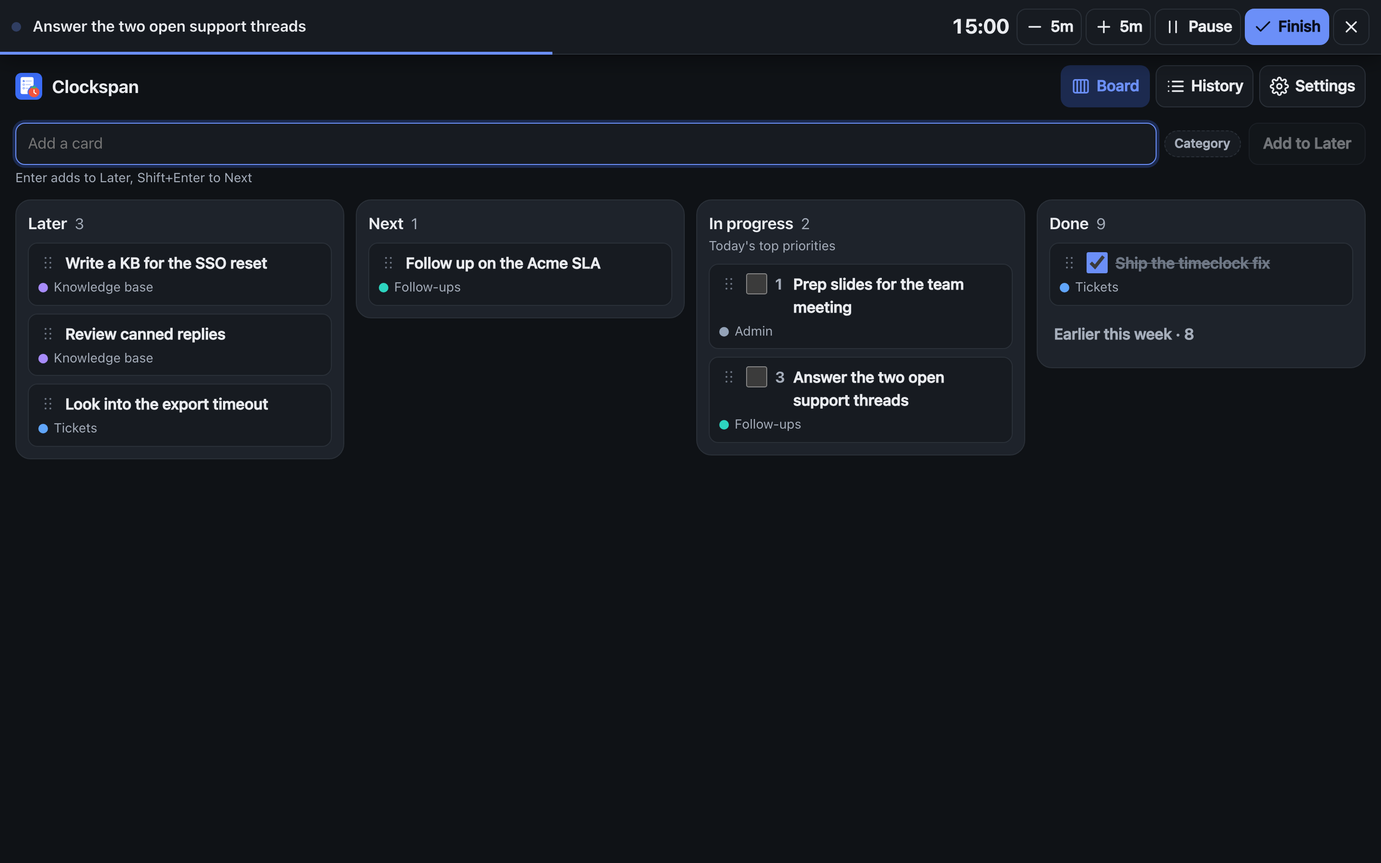
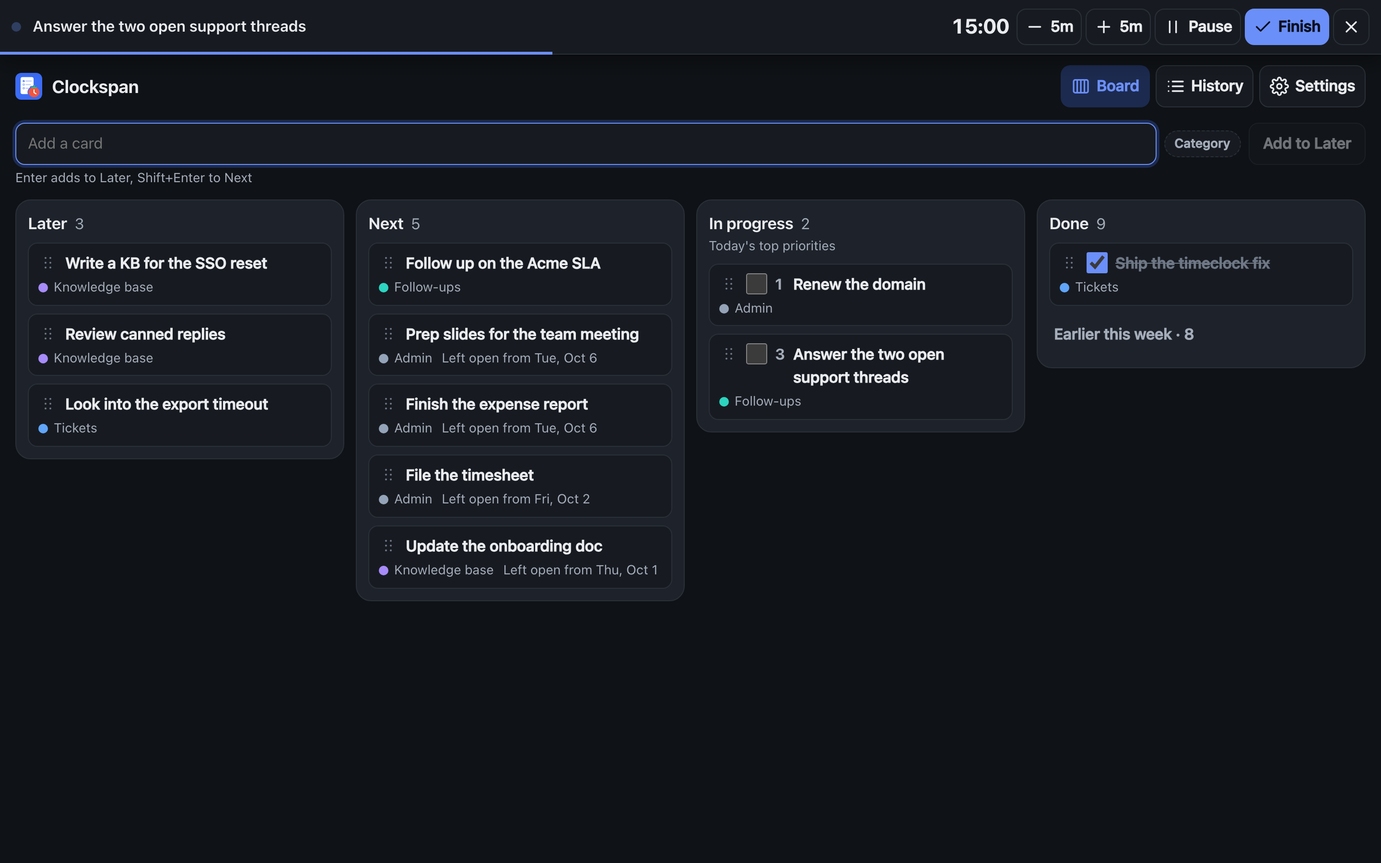
Bring the README up to date for tasks stored once (#358)
Bring the README up to date for "Store each task once" (#356) and "Let
the board edit planned and done tasks" (#357), which merges first.

What changed:
- Priorities: a task has one name and one category, and a rename or
category change reaches every day it is on. The left-open offer brings
back the same tasks rather than copies.
- Top priorities: x shows on every row with text and on empty rows past
Rows per day. Off this day / Delete everywhere, and Delete everywhere
keeps logged time as unplanned. Renaming notes how many earlier days it
also renames.
- Day log: a linked session shows its task's current name, and the name
can't be retyped while the session is linked.
- Board: a typed task shows in In progress on its day, then in Next as
"Left open from ..." for two weeks. A task done on an earlier day, a
planned task and a recurring row can be renamed and recategorised on the
board, and a task done earlier can be deleted there. Delete's confirm
gives the days and the logged time.
- Categories, Review, Recurring priorities and Two devices: reworded for
one category per task, and the same task added on both devices is kept
once.
- Screenshots: retook board-desktop, sheet-desktop and sheet-phone-dark,
which show these changes. Restored the rest, which only differed by
date.

Verified: each claim checked against the code on main and the #357 diff
(Priorities.tsx's x rule, retro.ts's per-day focus, copy.ts's confirm
[…]

Changed region(s): [[0.25, 0.3733, 0.4688, 0.5911], [0.5312, 0.3111, 0.6875, 0.4978], [0.25, 0.6222, 0.4688, 0.6844]]

diff --git a/README.md b/README.md
@@ -15,11 +15,11 @@
 
 **Timeclock.** Tap *Now* on *Clock in* and the sheet works out when lunch must start (default: within 5 hours) and when your day ends (default: 8 hours worked plus a 30-minute lunch), and re-plans if lunch runs long. A day with no more work than the lunch window (5 hours by default) needs no lunch, so none is planned or alarmed. The *Now* for the next punch is the highlighted one. Forgot to punch? Type the time. Extra out/in pairs cover appointments before or after lunch. The day ends at the *Clock out* once the clock reaches it, early or not, with a small celebration.
 
-**Priorities.** New days start with three rows (adjustable). You can add more; past three, the sheet asks first: the nudge changes once some rows are ticked, and again once they all are. Rows can only be ticked once they have text. A new day's empty list offers whatever the last day left unticked, in one tap. With the sheet open on a laptop and a phone at once, the two merge their edits row by row.
+**Priorities.** New days start with three rows (adjustable). You can add more; past three, the sheet asks first: the nudge changes once some rows are ticked, and again once they all are. Rows can only be ticked once they have text. A task has one name and one category: rename it on any day, or on the board, and it changes on every day it is on. A new day's empty list offers whatever the last day left unticked, in one tap, as the same tasks. With the sheet open on a laptop and a phone at once, the two merge their edits row by row.
 
 **Focus timer.** 15, 25 or 50-minute sessions (or three lengths of your own) you can stretch, shorten or pause (paused time isn't logged). When one runs out it chimes and waits for you to add time or finish. Link a session to one of your open priorities, or put a new task on the plan as you start it. The running timer stays at the top of every view, and since its start time lives on the server it survives reloads and phone sleep. Between sessions, **Break** counts down a short break (5 minutes by default), says when it's over, and logs it in the day log. A break lives on the server like a timer, so it counts down on every device and survives a reload; starting a session ends it. One ended within its first minute (Break pressed by mistake) isn't logged. Turn on *Suggest a break after each session* and finishing a session offers a break sized to it, Pomodoro style: a fifth of the session (25 minutes earn 5), and after four sessions in a row a long break of a fifth of all four, up to 30 minutes.
 
-**Day log.** Every session with its actual duration, which priority it was for (editable after the fact), and the day's total focused time. The breaks you took sit between the sessions, with the day's total time on breaks.
+**Day log.** Every session with its actual duration, which priority it was for, under that priority's current name (editable after the fact), and the day's total focused time. The breaks you took sit between the sessions, with the day's total time on breaks.
 
 <p align="center">
   <img src="docs/screenshots/retro.png" width="360" alt="The retrospective card: four of five priorities done, the day's one routine among them, time logged against each, a row added mid-day, a session that was not on the plan, and the note">
@@ -40,10 +40,10 @@
 **Week / month / quarter review.** History → **Review** rolls the days up: hours worked against a target, focused time and how much of it was on plan, breaks, rows added mid-day, where the off-plan time went, which priorities never got done, and every day's note. Repeats are merged, so a chore that came back on five days is one row with its total, and long lists fold after eight rows. Tap a row to open that day (the latest one, for a merged row).
 
 <p align="center">
-  <img src="docs/screenshots/board-desktop.png" width="720" alt="The Board page on a desktop, dark mode: the capture box, then Later, Next, In progress (today's priorities) and Done side by side, cards marked with their category">
+  <img src="docs/screenshots/board-desktop.png" width="720" alt="The Board page on a desktop, dark mode: the capture box, then Later, Next with the tasks left open on earlier days, In progress (today's priorities) and Done side by side, cards marked with their category">
 </p>
 
-**Board, categories and recurring priorities.** Off by default. One switch turns all three on, and turning it off hides them again without deleting anything. The Board page is for tasks that come up but aren't for today, in four columns: *Later*, *Next*, *In progress* and *Done*. *In progress* is today's priorities list itself, so a row written on the sheet shows up there and a card moved there lands on today's list. *Done* holds this week. Categories go on cards, priorities and sessions, and the review adds up the time under each. Recurring priorities come back on the weekdays you pick: on those days the sheet offers them for today's list, and the review counts how often each got done.
+**Board, categories and recurring priorities.** Off by default. One switch turns all three on, and turning it off hides them again without deleting anything. The Board page is for tasks that come up but aren't for today, in four columns: *Later*, *Next*, *In progress* and *Done*. *In progress* is today's priorities list itself, so a row written on the sheet shows up there and a card moved there lands on today's list. A task left open on an earlier day waits in *Next* for two weeks. *Done* holds this week. Categories go on tasks and sessions, and the review adds up the time under each; change a task's category and its past time moves with it. Recurring priorities come back on the weekdays you pick: on those days the sheet offers them for today's list, and the review counts how often each got done.
 
 <p align="center">
   <img src="docs/screenshots/settings-alarms.png" width="300" alt="Settings → Alarms: per-alarm warn-before chips, when reached, repeat while over">
@@ -277,11 +277,14 @@ Going from `none` to `oidc` works the same way. Sign in through your provider on
   - **Extra out / in.** Need to step out for an appointment? **Add extra out / in** for as many pairs as you need. A pair sits above lunch until *Lunch out* is punched; after that only a pair punched out before lunch stays above. Your projected *Clock out at* accounts for everything. Came back after clocking out? Tap **Add extra out / in**: your clock-out time becomes that pair's *Out*, tap **Now** on its *In*, and you get a fresh *Clock out* row.
   - **Past midnight.** A day's punches fall on its own date, and at midnight the sheet moves to the new day, whose alarms start over. A shift that runs past midnight is two days here. Go back (◀) and clock out at 11:59 PM, then clock in at 12:00 AM on the new day (type `1200`, then `a`; `0000` with 24-hour time). The new day counts its lunch deadline and clock-out from midnight, so under **Work day → Change** set its length to the hours left.
   - **Celebrations.** The day-complete line comes with a burst of emoji and a sound; reaching the work week on today's sheet gets a smaller burst and its own sound, and so do ticking a priority and saving *Plan tomorrow* (their sounds are off until you pick one): *Settings → Sheet → Celebrations* turns the bursts off (so does the system's reduce-motion setting), and *Settings → Alarms → Sounds* picks the sounds.
-- **Top priorities.** **Add priority** goes to the first row nothing was written in, or adds a row at the end; past three rows with text, or past your configured count when that is higher, it asks first. With some rows ticked, the notice lists what's done and the buttons read *Add anyway / Finish what's open*; with everything ticked, *Add a bonus / Stop here*. Rows beyond your default can be removed with the ×, and *Settings → Sheet → Priorities → Rows per day* sets how many rows a new day starts with. Clearing a row and typing something else renames it: the focus logged on it stays with the row, and a note under the empty row says so. **Add priority** is the way to start something new, so it never fills a cleared row. While today's list has nothing written on it (recurring rows aside), the card offers what the last day with a plan left unticked: **Add to today** brings those rows over, and **Start fresh** hides the offer for the rest of the day on that device.
-- **Timer.** Type what you're about to do, tap 15/25/50 (*Settings → Sheet → Focus timer* sets these and the break). Or tap one of the *Working on* chips (your open priorities) and the session is linked to that row. New task from your manager? Type it, tick **Also add to today's priorities**, start: the first row nothing was written in fills in (a cleared row keeps its time and is skipped), or a new row at the end, and the session is linked. The box only shows while the list has room: a row nothing was written in, or fewer than 20 rows. The bar at the top follows you around; **−5m / +5m** adjust the current session, **Pause** stops the clock for an interruption (the time away isn't logged, and a pause left for an hour closes the session where it began), **Finish** ends it early and logs the real duration. Reaching zero chimes and the countdown goes negative while it waits: **+5m** keeps going, and **Finish** logs the planned length, or, once you are a minute or more over, asks whether to log the planned length or the time you actually worked; left unanswered for ten minutes it logs the planned length on its own.
-- **Day log.** Rows show a small number when the session was for a priority. Tap a label to edit it, or to change which priority it was for (*Unplanned* unlinks it). A break row shows how long you rested (**End break** on the timer card logs a short one as it was), and the trash button removes one you didn't mean to take.
-- **Retrospective.** The last card on the sheet, unless you move it. *Planned* is each priority with the focused time logged against it (rows written after your first session are marked *added HH:MM*), and its heading counts the rows ticked, then the recurring ones again on their own (*4 of 5 done · routines 1 of 1*); *Not on the plan* is every session without a priority. Write why the day went the way it did and tap **Mark reviewed**. *Settings → Alarms → Retrospective* controls the reminder (default: 30 minutes before clock-out; it isn't silenced by overtime approval, marking the day reviewed clears it, and hiding the card under *Customize* turns it off). The banner's **Open retrospective** button takes you to the card.
-- **Plan tomorrow.** At the end of today's retrospective, **Plan tomorrow** lists today's open rows, each ticked, and takes anything else you type; **Add to tomorrow** puts them on the next work day's list while it's fresh. With weekends off the calendar, Friday plans Monday, and the buttons name Monday's date. A row already on that list isn't added twice, and recurring priorities stay behind: each comes back on its own days.
+- **Top priorities.** **Add priority** goes to the first row nothing was written in, or adds a row at the end; past three rows with text, or past your configured count when that is higher, it asks first. With some rows ticked, the notice lists what's done and the buttons read *Add anyway / Finish what's open*; with everything ticked, *Add a bonus / Stop here*. *Settings → Sheet → Priorities → Rows per day* sets how many rows a new day starts with.
+  - **Renaming.** A task has one name. Type over a row's name and the task is renamed on every day it is on, past days included; when earlier days hold it, a note under the box says how many (*Also renames it on 3 earlier days.*). Emptying the box doesn't remove the task: leave the box and its name comes back.
+  - **Taking a task off.** × sits on every row with text, and on empty rows past your Rows per day. Within your Rows per day it leaves an empty row; past them the row goes. When the task is on other days or has time logged on it, × asks first: **Off this day** takes it off this day's list only, and **Delete everywhere** takes it off every day and deletes it. The time logged on it stays in the day log as unplanned time, under its name. A recurring priority's row comes off that day without asking.
+  - **Left open.** While today's list has nothing written on it (recurring rows aside), the card offers what the last day with a plan in the past two weeks left unticked: **Add to today** puts those same tasks on today's list, and **Start fresh** hides the offer for the rest of the day on that device.
+- **Timer.** Type what you're about to do, tap 15/25/50 (*Settings → Sheet → Focus timer* sets these and the break). Or tap one of the *Working on* chips (your open priorities) and the session is linked to that row. New task from your manager? Type it, tick **Also add to today's priorities**, start: the first row nothing was written in fills in, or a new row at the end, and the session is linked. The box only shows while the list has room: a row nothing was written in, or fewer than 20 rows. The bar at the top follows you around; **−5m / +5m** adjust the current session, **Pause** stops the clock for an interruption (the time away isn't logged, and a pause left for an hour closes the session where it began), **Finish** ends it early and logs the real duration. Reaching zero chimes and the countdown goes negative while it waits: **+5m** keeps going, and **Finish** logs the planned length, or, once you are a minute or more over, asks whether to log the planned length or the time you actually worked; left unanswered for ten minutes it logs the planned length on its own.
+- **Day log.** Rows show a small number when the session was for a priority, and its current name, so a rename reaches the day log, the timer and its alerts. Tap the name to change which priority it was for; it can't be retyped while the session is linked to one. *Unplanned* unlinks it and keeps the name as its own label, which you can then edit like any session's. A break row shows how long you rested (**End break** on the timer card logs a short one as it was), and the trash button removes one you didn't mean to take.
+- **Retrospective.** The last card on the sheet, unless you move it. *Planned* is each priority with the focused time logged against it (rows written after your first session are marked *added HH:MM*), and its heading counts the rows ticked, then the recurring ones again on their own (*4 of 5 done · routines 1 of 1*); *Not on the plan* is every session without a priority, or whose priority was taken off that day. Write why the day went the way it did and tap **Mark reviewed**. *Settings → Alarms → Retrospective* controls the reminder (default: 30 minutes before clock-out; it isn't silenced by overtime approval, marking the day reviewed clears it, and hiding the card under *Customize* turns it off). The banner's **Open retrospective** button takes you to the card.
+- **Plan tomorrow.** At the end of today's retrospective, **Plan tomorrow** lists today's open rows, each ticked, and takes anything else you type; **Add to tomorrow** puts the same tasks on the next work day's list while it's fresh. With weekends off the calendar, Friday plans Monday, and the buttons name Monday's date. A row already on that list isn't added twice, and recurring priorities stay behind: each comes back on its own days.
 - **Alarms.** Settings → Alarms. Per alarm: warn-before chips (30/15/10/5/1 min), *when reached*, and *repeat while over*. Under *Sounds*, each event (a warning, a deadline reached, a repeat, the timer finishing, a break ending, the day completing, the work week reached, a priority ticked, the next day planned) gets one of a few chimes or bundled clips, or none, with a Test button. The tiles turn amber when you're inside the first warning window and red when you're over.
   - **Second meal period.** On a day heading past 10 hours worked (overtime approved, already over your target, or a target longer than 10 hours) the sheet shows when your 10th hour ends and alarms before it. A day of exactly 10 hours, like a 4×10 schedule, owes no second meal and gets no alarm. An extra out / in punched after lunch out counts as taken; a break on the timer card doesn't. Adjust the threshold under *Settings → Timeclock*, or turn the alarm off if you've waived it.
   - **Overtime approved.** A switch on the timeclock card, and a button on the clock-out alarm banner, that silences that day's clock-out alarm. Meal alarms stay on. If overtime doesn't apply to you, turn off *Settings → Timeclock → Overtime*: both disappear, and time past your day reads as *past your day* instead of a red *Over by*.
@@ -290,16 +293,16 @@ Going from `none` to `oidc` works the same way. Sign in through your provider on
 - **History.** **History** → **Days** is a month calendar with each day's hours and a bar for how much of its work day that was; ◀ steps back as far as your data goes. Tap a day for its worked, focused and priorities numbers, a tick if it was reviewed, and its note, then **Open day** or **Review this week**; Back from the day returns to the calendar with it picked. The sheet's ◀ ▶ and date picker reach past days too. Past days are editable; timers only start on today. Work weekdays only? *Settings → Sheet → History → Show weekends* off drops Saturday and Sunday from the calendar and its sticker counts; a weekend day is still reachable from the sheet's date picker.
   - **Sticker chart.** Off by default: turn it on under *Settings → Sheet → History*. Every day on the History calendar then wears a sticker for each thing it did instead of its hours, with the month's count on top and a day that earned every one picked out. The legend chips count each kind; tap one to show only that sticker, tap again for all of them. Today updates as you go. Hover a sticker for what it was for.
 - **Review.** History → **Review**. Pick *Week* (Monday to Sunday), *Month* or *Quarter* and step back with ◀. The tiles show days and hours worked against a target, focused time with the number of sessions and how much of it was on plan, and priorities done with the days reviewed. A week's target is *Work week* under *Settings → Timeclock*; a month's or a quarter's adds up the length of each work day you clocked in on, a half day at its own length. Under the tiles: the rows added mid-day and how many got ticked, the timer breaks and their total, and for a week or a month a typical day (the middle count of rows written and ticked over the days before today). Recurring priorities count like any other priority in the *Priorities* tile, *Added mid-day* and *Typical day*, and time on one counts as on plan. Then the lists, where a row opens its day (the latest, for a merged row) and Back returns to the review:
-  - *By category*, with the board on and a category on anything in the period: each category's focused time as a bar, solid for time on a priority and striped for time off the plan, with how many priorities were ticked under it. Its rows open no day. *Added mid-day* above it then names a category when more than half of those rows had it (*mostly Tickets*).
-  - *Off the plan*: sessions without a priority, merged by label, longest first.
-  - *Routines*, when the period had recurring priorities: each one's days ticked out of the days it was on the list (*4 of 5 days*) and its focused time, under its current title with the board on.
+  - *By category*, with the board on and a category on anything in the period: each category's focused time as a bar, solid for time on a priority and striped for time off the plan, with how many priorities were ticked under it. A task counts under its current category, so changing it moves the task's past time too. Its rows open no day. *Added mid-day* above it then names a category when more than half of those rows had it (*mostly Tickets*).
+  - *Off the plan*: sessions without a priority, or whose priority was taken off that day, merged by task (else by label), longest first.
+  - *Routines*, when the period had recurring priorities: each one's days ticked out of the days it was on the list (*4 of 5 days*) and its focused time, under its current title.
   - *Not done*: one-off priorities not ticked by the end of the period. A task carried from day to day is one row; a routine's missed days stay under *Routines*.
   - *Why*: each day's note.
 - **The board.** Off by default. *Settings → Sheet → Board → Board page* turns on the three parts below together and adds a *Board* tab to Settings. Turned off again, they all hide and nothing is deleted.
-  - **Board page.** A **Board** button joins the header. Type a task into the box at the top: Enter puts it at the top of *Later*, Shift+Enter at the end of *Next*. *In progress* is today's priorities: every row you write on the sheet shows there, and a card moved to *In progress* becomes a row of today's list (past three rows it asks first, as **Add priority** does). Tick it on either page and it goes to *Done*, which shows today's in full and the rest of the week folded, and starts over on Monday; History keeps everything. Drag a card by its grip to another column, or to a new place in *Later* or *Next*; from the keyboard, Tab to the grip, press Space, move it with the arrow keys and press Space again (Escape puts it back). Click a card's title to rename it, give it a category, send it to another column with *Move to*, or delete it (the confirm names any day's list it comes off). *Done* is the week's record, so only today's rows can be deleted from it; untick any other card there to send it back to *Next*. A row left open at the end of a day waits in *Next*, and the next morning's offer brings it back under the card's title; one you moved to *Later*, finished or deleted on the board isn't offered. A done item stays done: moved to *Later* or *Next*, the board offers a new card with its title instead; if it keeps coming back, make it a recurring priority. A card already on tomorrow's list (from *Plan tomorrow*) shows in *Next* as planned, and the board can only delete it. *Later* and *Next* hold 300 cards between them. In a window narrower than 900 px, a phone included, the board shows one column at a time, picked with the switch above them.
-  - **Categories.** A *Category* chip sits on each card, on the sheet's rows with text (beside the row, under it on a phone; with a mouse, an empty chip shows when you point at the row), beside **Also add to today's priorities** on the timer once it's ticked, on the rows you type under **Plan tomorrow**, and in the day log's edit of a session that wasn't for a priority. Pick one from its list, or type a name into *New category* and press Enter to make it and pick it; a pick saves at once. The chip beside the board's capture box sets the category for new cards and stays picked on that device. A cleared row keeps its category, and a row carried to another day takes it along. A session counts under its priority's category. One that wasn't for a priority can have its own, shown as a dot before its label in the day log (point at the dot, or open the edit, for its name). A session on a row you cleared shows that row's category until you pick another, and picking *No category* there unlinks it from the row, so the note under that row stops counting its time. Linking a session to a priority drops a category of its own. *Settings → Board → Categories* adds, renames, recolours or removes them. A removed category stays on past days, and typing its name again brings it back. Up to 100 can be in use; the eight colours repeat.
-  - **Recurring priorities.** *Settings → Board → Recurring priorities* lists the tasks that come back on set days. Each has a title, a category and the weekdays it is offered on (a new one starts on Monday to Friday). On those days, today's *Top priorities* offers them under *Repeats today* until you answer, in the same notice as the left-open rows. Every item in it has a box, the left-open rows included: they start ticked, and so do the first recurring ones, up to *Recurring rows per day* (3 by default; tick more and it says so, then adds them anyway). **Add to today** adds what's ticked, the recurring ones after the empty rows with a repeat mark; **Not today** adds nothing. Either way the notice doesn't come back that day on that device. A recurring row counts like any priority (done, Review, stickers) but not toward the past-three question, and neither *Plan tomorrow* nor the left-open offer carries it over: it comes back on its own days. Cleared, it stays that routine's row for the day, and a note under it says so. On the board it shows in *In progress* with a repeat mark and no grip: tick it there, or take it off today's list with *Remove from today*; renaming it is done on the sheet. Removing a recurring priority in Settings deletes it after a confirm. The rows it already added keep their text and category, and renaming it leaves those rows as they are.
-- **Two devices.** A laptop and a phone can have the app open at once. Each reads today's sheet, the timer, the settings and the board again every minute and when you come back to it. Priority edits merge row by row: a row or tick saved on one stays when the other saves, a row removed on one stays gone unless the other changed it, and a row added on both with the same text is kept once. A settings change saves only that setting, so it doesn't undo one made on the other device. There is one timer: starting one while the other device runs one shows that one instead, with a banner. Each device raises its own alarms, and *Start fresh*, *Not today* and the capture box's category hold only on the device where you chose them.
+  - **Board page.** A **Board** button joins the header. Type a task into the box at the top: Enter puts it at the top of *Later*, Shift+Enter at the end of *Next*. *In progress* is today's priorities: every row you write on the sheet shows there, and a card moved to *In progress* becomes a row of today's list (past three rows it asks first, as **Add priority** does). Tick it on either page and it goes to *Done*, which shows today's in full and the rest of the week folded, and starts over on Monday; History keeps everything. Drag a card by its grip to another column, or to a new place in *Later* or *Next*; from the keyboard, Tab to the grip, press Space, move it with the arrow keys and press Space again (Escape puts it back). Click a card's title to rename it, give it a category, send it to another column with *Move to*, or delete it. A card and its rows on the sheet are one task, so a rename or a category on the board shows on every day's sheet, and one on a sheet shows on the board. **Delete** takes the task off every day's list, past and later days included, and deletes it; the confirm says how many days it is on and how much time is logged on it, and that time stays in the day log as unplanned time. A task typed on the sheet gets no place in *Later* or *Next* by itself: it shows in *In progress* on its day. Left open, it shows in *Next* as *Left open from …* for two weeks, below Next's own cards, unless you put it on a later day. After that it leaves the board, and History and Review still show it. Moving or dragging it to *Later* or *Next* gives it a place of its own. The next morning's offer brings a left-open task back too; one you moved to *Later*, finished or deleted on the board isn't offered. A task ticked on an earlier day this week shows in *Done* with no checkbox: untick it on that day's sheet, or move it to *In progress* to work on it again. You can still rename it, change its category or delete it there. A done task stays done: moved to *Later* or *Next*, the board offers a new card with its title instead; if it keeps coming back, make it a recurring priority. A task already on a later day's list (from *Plan tomorrow*) shows in *Next* as *Planned for …*: rename it, change its category or delete it on the board, and tick it or take it off on that day's sheet. *Later* and *Next* hold 300 open cards between them. In a window narrower than 900 px, a phone included, the board shows one column at a time, picked with the switch above them.
+  - **Categories.** A *Category* chip sits on each card, on the sheet's rows with text (beside the row, under it on a phone; with a mouse, an empty chip shows when you point at the row), beside **Also add to today's priorities** on the timer once it's ticked, on the rows you type under **Plan tomorrow**, and in the day log's edit of a session that wasn't for a priority. Pick one from its list, or type a name into *New category* and press Enter to make it and pick it; a pick saves at once. The chip beside the board's capture box sets the category for new cards and stays picked on that device. A task has one category on every day it is on, and Review counts its past time under the current one. A session counts under its priority's category. One that wasn't for a priority can have its own, shown as a dot before its label in the day log (point at the dot, or open the edit, for its name). So can one whose priority was taken off that day: picking a category for it unlinks it from the task. Linking a session to a priority drops a category of its own. *Settings → Board → Categories* adds, renames, recolours or removes them. A removed category stays on past days, and typing its name again brings it back. Up to 100 can be in use; the eight colours repeat.
+  - **Recurring priorities.** *Settings → Board → Recurring priorities* lists the tasks that come back on set days. Each has a title, a category and the weekdays it is offered on (a new one starts on Monday to Friday). On those days, today's *Top priorities* offers them under *Repeats today* until you answer, in the same notice as the left-open rows. Every item in it has a box, the left-open rows included: they start ticked, and so do the first recurring ones, up to *Recurring rows per day* (3 by default; tick more and it says so, then adds them anyway). **Add to today** adds what's ticked, the recurring ones after the empty rows with a repeat mark; **Not today** adds nothing. Either way the notice doesn't come back that day on that device. A recurring row counts like any priority (done, Review, stickers) but not toward the past-three question, and neither *Plan tomorrow* nor the left-open offer carries it over: it comes back on its own days. × on its row takes it off that day without asking. On the board it shows in *In progress* with a repeat mark and no grip: tick it there, or take it off today's list with *Remove from today*. Rename it or change its category in Settings, on the sheet or on the board, and every day it was on shows the change. Removing a recurring priority in Settings asks first, then stops it repeating; the days it was on keep it under its name.
+- **Two devices.** A laptop and a phone can have the app open at once. Each reads today's sheet, the timer, the settings and the board again every minute and when you come back to it. Priority edits merge row by row: a row or tick saved on one stays when the other saves, a row removed on one stays gone unless the other changed it, and the same task added on both (by the morning offer, *Plan tomorrow* or the board) is kept once. The same text typed as a new row on each makes two tasks; delete the extra one. When both rename a task or change its category, the later change wins. A settings change saves only that setting, so it doesn't undo one made on the other device. There is one timer: starting one while the other device runs one shows that one instead, with a banner. Each device raises its own alarms, and *Start fresh*, *Not today* and the capture box's category hold only on the device where you chose them.
 - **Layout.** In a window 1100 px wide or more, the sheet has two columns: by default the timeclock and priorities on the left, the timer, day log and retrospective on the right. Narrower windows and phones show one column. Tap **Customize** to drag a card by its grip, use ↑/↓, or hide a card; with two columns, dragging and ↑/↓ stay within a column, and ← or → moves a card to the other one (on a phone or a narrow window its place doesn't change). Hidden cards appear in a strip at the bottom while customizing. A window resized across 1100 px keeps its layout until you reload or come back to the sheet from History or the board. *Settings → Sheet → Layout → Reset to default* restores everything, columns included.
 - **Settings.** Six tabs; *Board* and *Account* show only when they apply:
   - *Timeclock*: the work day, *Meal periods* (and *Lunch punches* when they're off), the lunch deadline and length, the second meal threshold, *Overtime*, *Show hours* with the work week, and the time format.
@@ -308,7 +311,7 @@ Going from `none` to `oidc` works the same way. Sign in through your provider on
   - *Board*, while the board is on: categories, then recurring priorities with *Recurring rows per day*.
   - *Data*: deleting old days, and **Reset all settings**, which puts every setting back to its default; days, punches, sessions and the board are untouched.
   - *Account*, with local accounts: your password, and for the admin, the users.
-- **Data.** Settings → Data. *Delete old days automatically* keeps the last N days (30 to 3650) and drops the rest, with their punches, priorities, sessions, breaks and notes, and the board cards finished before then; the server checks every few hours. *Delete days before* a date does the same once, after showing how many days it will remove. Today and a day with a running timer are never deleted; settings are kept. If the admin set `RETENTION_DAYS`, the tab says so and that ceiling applies whatever you choose.
+- **Data.** Settings → Data. *Delete old days automatically* keeps the last N days (30 to 3650) and drops the rest, with their punches, priorities, sessions, breaks and notes, and the tasks finished or deleted before then; the server checks every few hours. *Delete days before* a date does the same once, after showing how many days it will remove. Today and a day with a running timer are never deleted; settings are kept. If the admin set `RETENTION_DAYS`, the tab says so and that ceiling applies whatever you choose.
 - **Phone.** Add to Home Screen (Android: *Install app*; iOS: Share → *Add to Home Screen*). Browser notifications on iOS only work from the installed app. *Settings → Sheet → Focus timer → Keep screen awake* keeps the screen on while a focus timer counts down (not while it is paused or has run out); if the phone sleeps anyway, the alert fires when you come back.
 
 ## Exposing it to the internet
